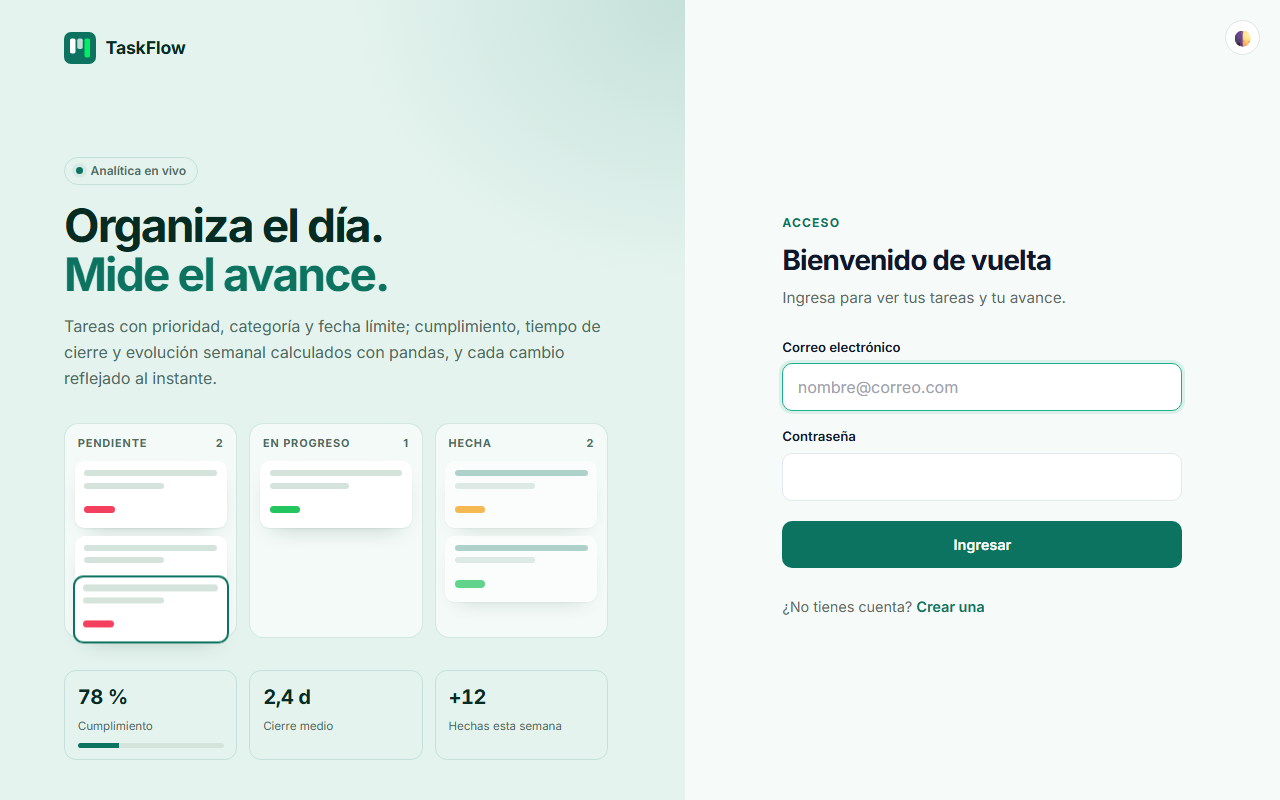
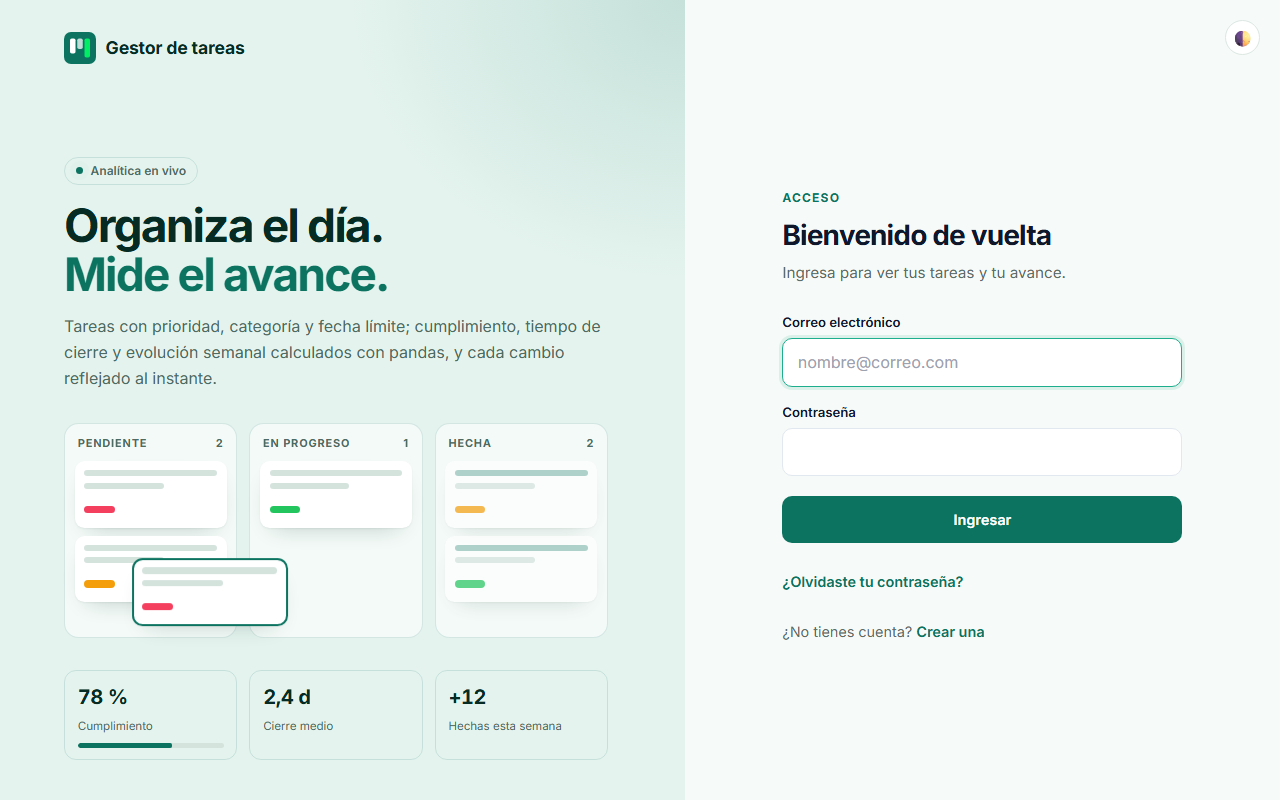
docs(manual): capturas con el nombre Gestor de tareas y pantallas de recuperación [skip ci]
- Regeneradas 01-inicio, 02-registro y 03-ingresar (nombre nuevo y enlace de recuperación).
- Nuevas 11-recuperar, 12-verificacion y 13-perdi-autenticador, con marcadores numerados y sin
  correos reales.
- Manual con el nombre visible del portal y las tablas de las pantallas nuevas.

diff --git a/docs/MANUAL.md b/docs/MANUAL.md
@@ -1,9 +1,9 @@
-# 📘 Manual de usuario · TaskFlow
+# 📘 Manual de usuario · Gestor de tareas
 
 Guía para usar la plataforma paso a paso: qué significa cada campo, qué datos se ingresan y qué
 protege la plataforma. Para la parte técnica vuelve al [README](../README.md).
 
-**Demo:** [TaskFlow (Google Cloud Run)](https://taskflow-812302804238.us-east4.run.app/)
+**Demo:** [Gestor de tareas (Google Cloud Run)](https://taskflow-812302804238.us-east4.run.app/)
 
 ## Contenido
 
@@ -104,13 +104,30 @@ Desde el inicio eliges **Crear cuenta** o **Ya tengo cuenta**.
 | 1 | Correo electrónico | El correo de tu cuenta |
 | 2 | Contraseña | Tu contraseña |
 | 3 | Ingresar | Pide el código de tu verificación en dos pasos |
+| 4 | ¿Olvidaste tu contraseña? | Abre la recuperación de contraseña (ver 4.3.1) |
 
-Después de la contraseña escribe el **código de 6 dígitos** de tu método (ver 4.3.3) y pulsa
-**Verificar**. Si tienes los dos métodos activos, puedes cambiar al otro desde la misma pantalla.
+Después de la contraseña aparece la pantalla del código:
+
+![Pantalla del código de verificación con sus opciones numeradas](img/manual/12-verificacion.png)
+
+| # | Campo | Qué hacer |
+|:-:|---|---|
+| 1 | Código de 6 dígitos | El código de tu app autenticadora o de tu correo (ver 4.3.3) |
+| 2 | Verificar | Termina de ingresar |
+| 3 | Perdí mi autenticador | Si ya no tienes la app, recupera el acceso por correo (ver 4.3.4) |
+
+Si tienes los dos métodos activos, puedes cambiar al otro desde la misma pantalla.
 
 La sesión se cierra tras **30 minutos sin actividad** y, en cualquier caso, a las **12 horas**.
 
 ### 4.3.1 Olvidé mi contraseña
+
+![Formulario para pedir el enlace de recuperación](img/manual/11-recuperar.png)
+
+| # | Campo | Qué hacer |
+|:-:|---|---|
+| 1 | Correo electrónico | El correo de tu cuenta |
+| 2 | Enviar enlace | Envía el enlace para crear una contraseña nueva |
 
 En **Ingresar**, pulsa **¿Olvidaste tu contraseña?** y escribe tu correo. Si la cuenta existe y está
 activa, te llega un enlace para crear una contraseña nueva. El enlace vence en 30 minutos y sirve una
@@ -143,6 +160,14 @@ permite entrar aunque no tengas el teléfono a mano.
 ### 4.3.4 Perdí mi autenticador
 
 Si cambiaste o perdiste el teléfono con la app autenticadora:
+
+![Pantalla de Perdí mi autenticador con sus campos numerados](img/manual/13-perdi-autenticador.png)
+
+| # | Campo | Qué hacer |
+|:-:|---|---|
+| 1 | Código de 6 dígitos | El código que llegó al correo de tu cuenta |
+| 2 | Continuar | Lleva al código QR para tu app nueva |
+| 3 | Enviar otro código | Pide un código nuevo si no llegó |
 
 1. Ingresa con tu correo y contraseña.
 2. En la pantalla **Escribe tu código**, pulsa **Perdí mi autenticador** (siempre visible).
